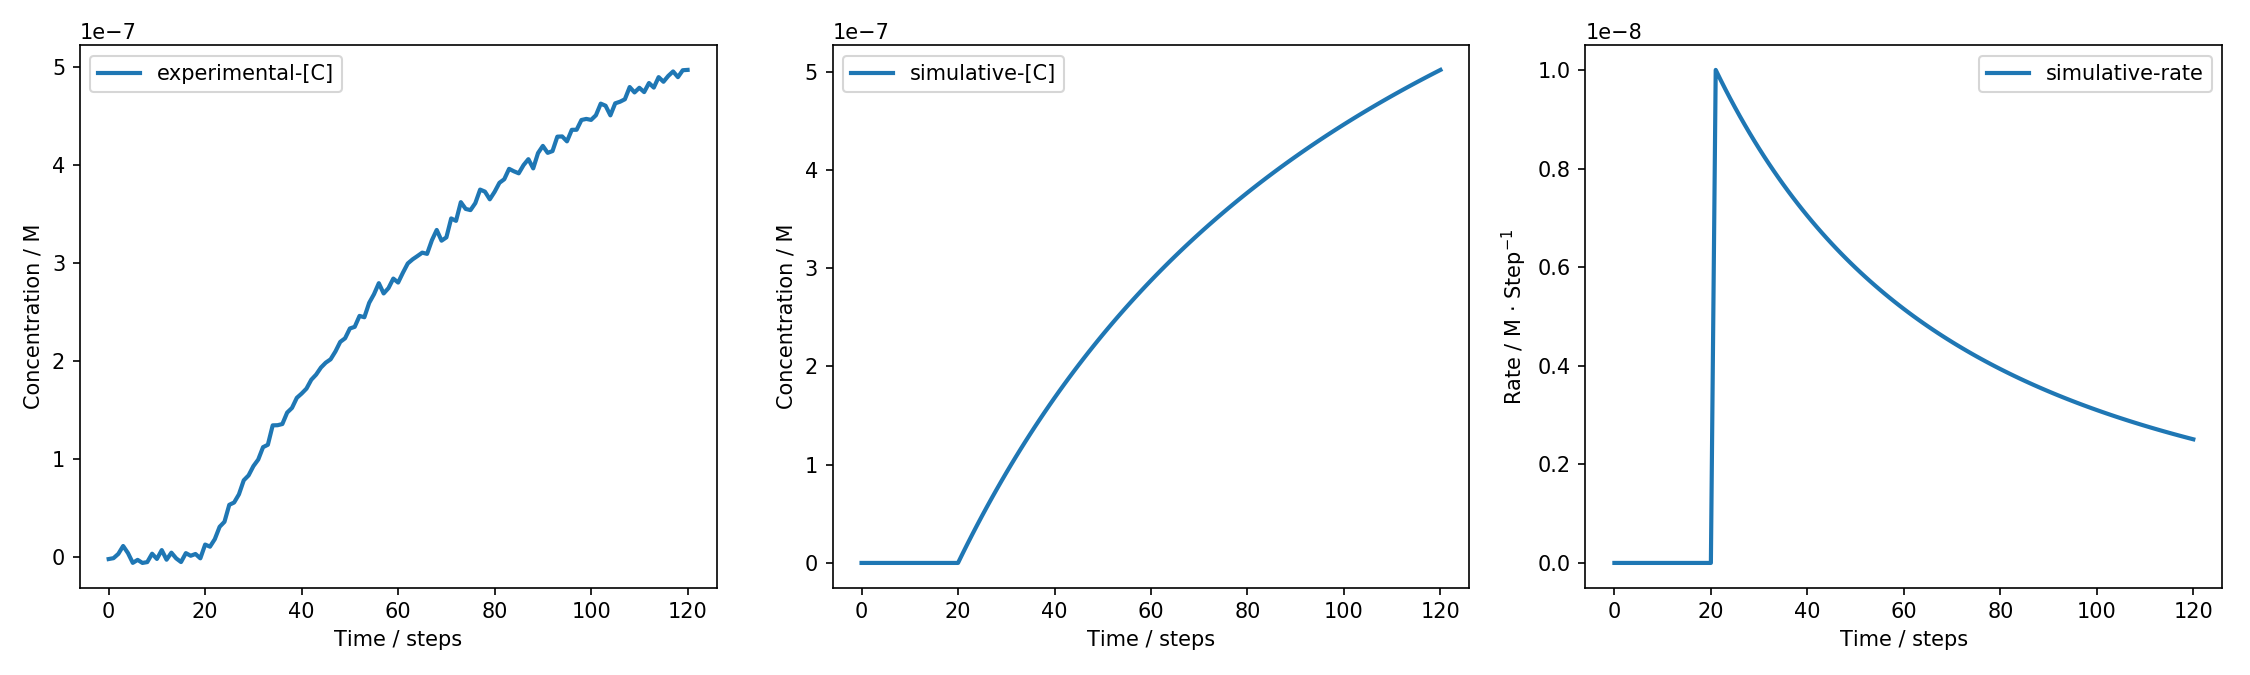
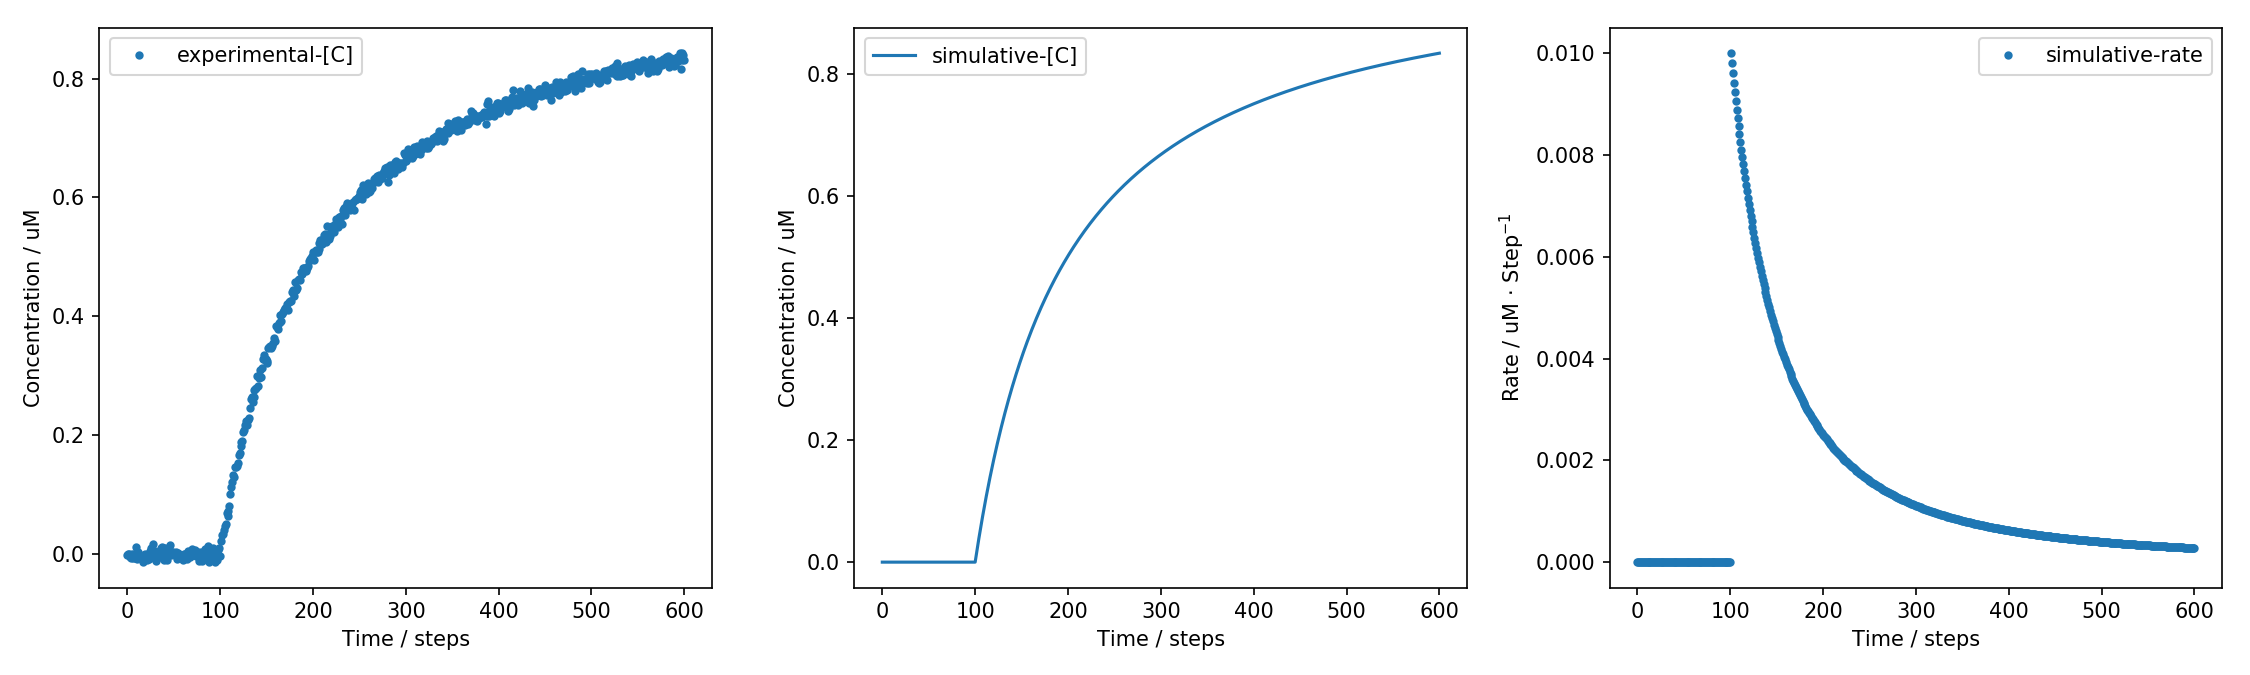
part2 updated

diff --git a/Figs/plt_2_1.py b/Figs/plt_2_1.py
@@ -1,7 +1,7 @@
 import numpy as np
 import matplotlib.pyplot as plt
 
-time = 100
+time = 500
 space = time // 5
 ka = 1e+4
 ini = [1e-6, 1e-6, 0, 0]
@@ -15,7 +15,7 @@ def differ(ini, ka, time, space, ret='delta'):
     for i in range(space+1):
         A[i], B[i] = ini[:2]
     delta = np.linspace(0, 0, time+space+1)
-    noise = np.random.randn(1, time+space+1) * np.sqrt(ini[0]*ini[1])/200
+    noise = np.random.randn(1, time+space+1) * np.sqrt(ini[0]*ini[1])/150
 
     for i in range(time):
         delta[space+i+1] = ka * A[space+i] * B[space+i]
@@ -41,24 +41,24 @@ x = np.linspace(0, time+space, time+space+1)
 
 plt.figure(figsize=(15,4.5))
 plt.subplot(131)
-plt.plot(x, y, label='experimental-[C]', color='C0', linewidth=2)
+plt.plot(x, y*1e6, '.', label='experimental-[C]', color='C0', linewidth=2)
 plt.xlabel('Time / steps')
-plt.ylabel('Concentration / M')
+plt.ylabel('Concentration / uM')
 plt.legend()
 
 y = differ(ini, ka, time, space, ret='C')
 plt.subplot(132)
-plt.plot(x, y, label='simulative-[C]', color='C0', linewidth=2)
+plt.plot(x, y*1e6, label='simulative-[C]', color='C0', linewidth=1.5)
 plt.xlabel('Time / steps')
-plt.ylabel('Concentration / M')
+plt.ylabel('Concentration / uM')
 
 plt.legend()
 
 y = differ(ini, ka, time, space, ret='')
 plt.subplot(133)
-plt.plot(x, y, label='simulative-rate', color='C0', linewidth=2)
+plt.plot(x, y*1e6, '.', label='simulative-rate', color='C0', linewidth=2)
 plt.xlabel('Time / steps')
-plt.ylabel('Rate / M $\cdot$ Step$^{-1}$')
+plt.ylabel('Rate / uM $\cdot$ Step$^{-1}$')
 plt.legend()
 #plt.show()
 plt.tight_layout()
